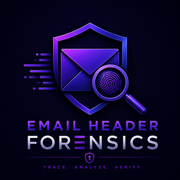
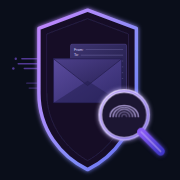
Add files via upload

diff --git a/src/components/NavBar.jsx b/src/components/NavBar.jsx
@@ -22,22 +22,25 @@ export function NavBar({ page, setPage }) {
         position: "sticky",
         top: 0,
         zIndex: 20,
-        background: "rgba(1,1,19,0.92)",
+        background: "rgba(10,14,26,0.92)",
         backdropFilter: "blur(10px)",
         WebkitBackdropFilter: "blur(10px)",
       }}
     >
       <div
         onClick={() => setPage("analyzer")}
-        style={{ display: "flex", alignItems: "center", cursor: "pointer" }}
+        style={{ display: "flex", alignItems: "center", gap: 10, cursor: "pointer" }}
       >
         <img
-          src="/nav-icon.png"
-          alt="Email Header Forensics"
-          width={40}
-          height={40}
-          style={{ display: "block", filter: `drop-shadow(0 0 8px ${T.accent}33)` }}
+          src="/favicon.svg"
+          alt="Email Header Forensics logo"
+          width={34}
+          height={37}
+          style={{ display: "block", filter: `drop-shadow(0 0 10px ${T.accent}33)` }}
         />
+        <div style={{ fontFamily: T.disp, fontWeight: 700, fontSize: 16.5, letterSpacing: 0.2, color: T.ink }}>
+          EMAIL HEADER FORENSICS
+        </div>
       </div>
 
       <nav style={{ display: "flex", gap: 4, flexWrap: "wrap" }}>

diff --git a/index.html b/index.html
@@ -22,8 +22,9 @@
       name="description"
       content="Privacy-first email header analysis for SOC analysts. SPF, DKIM, DMARC, Received-chain and transport-path forensics — processed entirely in your browser, nothing stored or transmitted."
     />
-    <link rel="icon" type="image/png" sizes="32x32" href="/favicon-32.png" />
-    <link rel="icon" type="image/png" sizes="16x16" href="/favicon-16.png" />
+    <link rel="icon" type="image/svg+xml" href="/favicon.svg" />
+    <link rel="alternate icon" type="image/png" sizes="32x32" href="/favicon-32.png" />
+    <link rel="alternate icon" type="image/png" sizes="16x16" href="/favicon-16.png" />
     <link rel="apple-touch-icon" sizes="180x180" href="/apple-touch-icon.png" />
     <title>Email Header Forensics — email header triage for SOC analysts</title>
   </head>

diff --git a/src/App.jsx b/src/App.jsx
@@ -1,6 +1,5 @@
 import React, { useState } from "react";
 import { T } from "./theme.js";
-import { Hero } from "./components/Hero.jsx";
 import { NavBar } from "./components/NavBar.jsx";
 import { CreditsBanner } from "./components/CreditsBanner.jsx";
 import { AnalyzerPage } from "./pages/Analyzer.jsx";
@@ -79,7 +78,6 @@ export default function App() {
         }
       `}</style>
 
-      <Hero />
       <NavBar page={page} setPage={setPage} />
       <CreditsBanner />
 

diff --git a/src/theme.js b/src/theme.js
@@ -9,8 +9,8 @@
    ============================================================ */
 export const T = {
   // Surface palette — deep navy/slate, not pure black, for a premium SaaS feel
-  bg: "#010113",
-  bgGrad: "linear-gradient(180deg, #010113 0%, #030320 40%, #010113 100%)",
+  bg: "#0A0E1A",
+  bgGrad: "linear-gradient(180deg, #0A0E1A 0%, #0C1120 40%, #0A0E1A 100%)",
   panel: "#111827",
   panel2: "#161F33",
   panelHover: "#1A2440",
